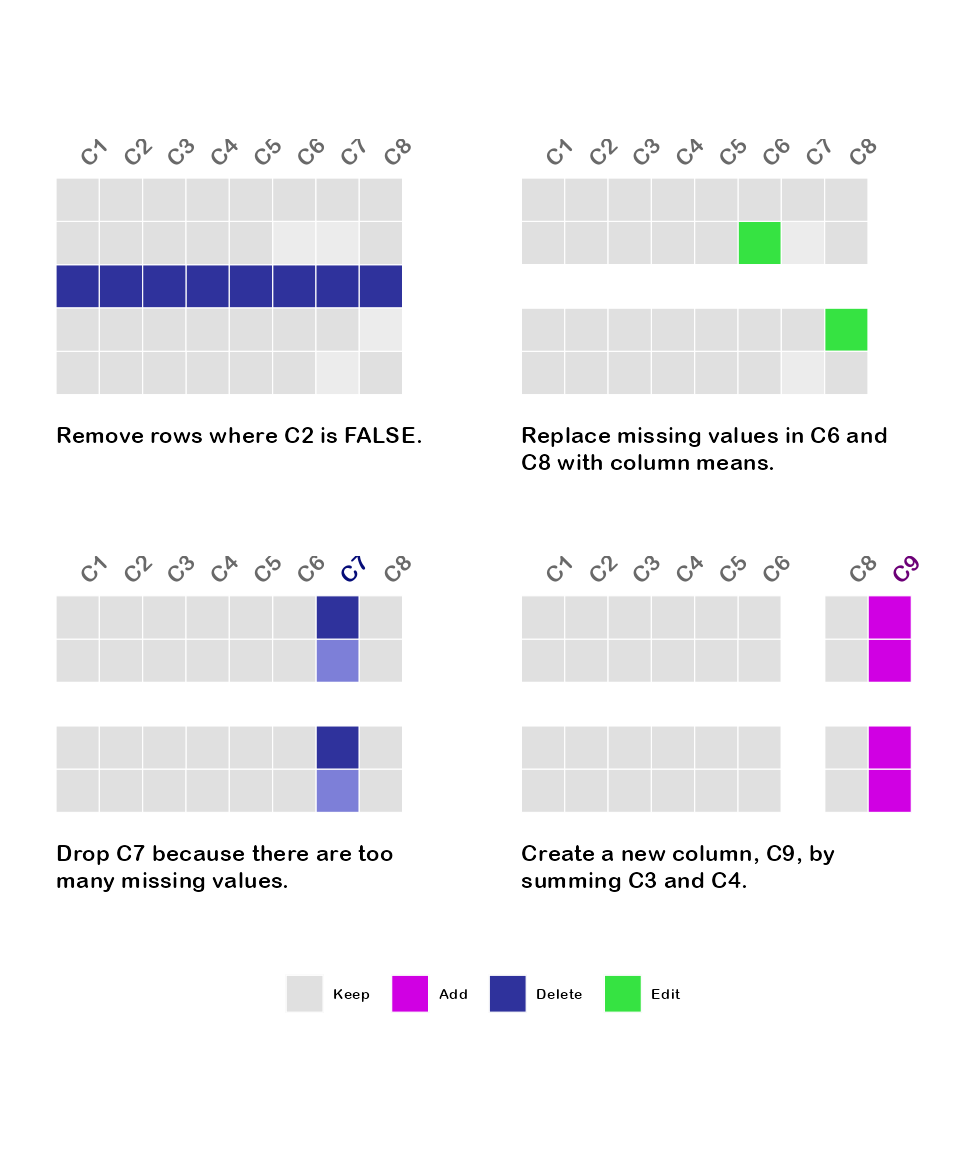
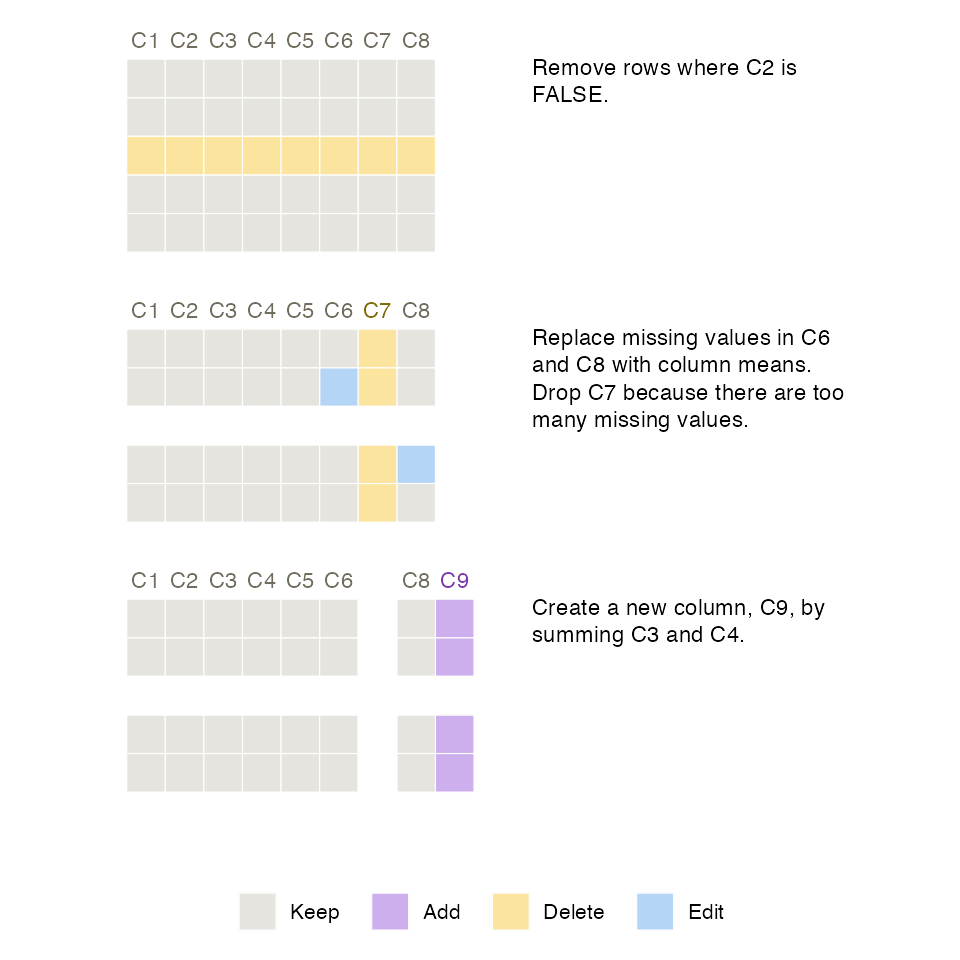
enable vertical alignment

diff --git a/docs/articles/smallsets.html b/docs/articles/smallsets.html
@@ -399,7 +399,7 @@ this should be done with caution.</p>
 this section highlight some of them. See <code><a href="../reference/Smallset_Timeline.html">?Smallset_Timeline</a></code>
 for a full list of options.</p>
 <p><strong>Example 1</strong></p>
-<p>Some differences: custom colour palette, data in the snapshots,
+<p>Differences: custom colour palette, data in the snapshots,
 highlighting missing data, a different font, no ghost data, and altered
 sizing, spacing, and labelling.</p>
 <div class="sourceCode" id="cb20"><pre class="downlit sourceCode r">
@@ -425,9 +425,21 @@ sizing, spacing, and labelling.</p>
 <span><span class="op">)</span></span></code></pre></div>
 <p><img src="smallsets_files/figure-html/timeline5-1.png" width="768" style="display: block; margin: auto;"></p>
 <p><strong>Example 2</strong></p>
-<p>Some differences: four snapshots, use of a built-in colour palette,
-split into two rows, and rotated column names.</p>
+<p>Differences: vertical alignment.</p>
 <div class="sourceCode" id="cb21"><pre class="downlit sourceCode r">
+<code class="sourceCode R"><span><span class="fu"><a href="https://rdrr.io/r/base/Random.html" class="external-link">set.seed</a></span><span class="op">(</span><span class="fl">145</span><span class="op">)</span></span>
+<span></span>
+<span><span class="fu"><a href="../reference/Smallset_Timeline.html">Smallset_Timeline</a></span><span class="op">(</span></span>
+<span>  data <span class="op">=</span> <span class="va">s_data</span>,</span>
+<span>  code <span class="op">=</span> <span class="fu"><a href="https://rdrr.io/r/base/system.file.html" class="external-link">system.file</a></span><span class="op">(</span><span class="st">"s_data_preprocess.R"</span>, package <span class="op">=</span> <span class="st">"smallsets"</span><span class="op">)</span>,</span>
+<span>  align <span class="op">=</span> <span class="st">"vertical"</span>,</span>
+<span>  spacing <span class="op">=</span> <span class="fu"><a href="../reference/sets_spacing.html">sets_spacing</a></span><span class="op">(</span>captions <span class="op">=</span> <span class="fl">8</span><span class="op">)</span></span>
+<span><span class="op">)</span></span></code></pre></div>
+<p><img src="smallsets_files/figure-html/timeline6-1.png" width="480" style="display: block; margin: auto;"></p>
+<p><strong>Example 3</strong></p>
+<p>Differences: four snapshots, use of the third built-in colour
+palette, split into two rows, and rotated column names.</p>
+<div class="sourceCode" id="cb22"><pre class="downlit sourceCode r">
 <code class="sourceCode R"><span><span class="fu"><a href="https://rdrr.io/r/base/Random.html" class="external-link">set.seed</a></span><span class="op">(</span><span class="fl">145</span><span class="op">)</span></span>
 <span></span>
 <span><span class="fu"><a href="../reference/Smallset_Timeline.html">Smallset_Timeline</a></span><span class="op">(</span></span>
@@ -447,7 +459,7 @@ split into two rows, and rotated column names.</p>
 <span>    legend <span class="op">=</span> <span class="fl">7</span></span>
 <span>    <span class="op">)</span></span>
 <span><span class="op">)</span></span></code></pre></div>
-<p><img src="smallsets_files/figure-html/timeline6-1.png" width="480" style="display: block; margin: auto;"></p>
+<p><img src="smallsets_files/figure-html/timeline7-1.png" width="480" style="display: block; margin: auto;"></p>
 </div>
 <div class="section level2">
 <h2 id="Alt_text">Alternative text (alt text)<a class="anchor" aria-label="anchor" href="#Alt_text"></a>
@@ -456,7 +468,7 @@ split into two rows, and rotated column names.</p>
 Timeline. When <code>altText = TRUE</code>, a draft of alt text is
 printed to the console. It can be copied from the console, revised for
 readability, and included with the figure.</p>
-<div class="sourceCode" id="cb22"><pre class="downlit sourceCode r">
+<div class="sourceCode" id="cb23"><pre class="downlit sourceCode r">
 <code class="sourceCode R"><span><span class="fu"><a href="https://rdrr.io/r/base/Random.html" class="external-link">set.seed</a></span><span class="op">(</span><span class="fl">145</span><span class="op">)</span></span>
 <span></span>
 <span><span class="fu"><a href="../reference/Smallset_Timeline.html">Smallset_Timeline</a></span><span class="op">(</span>data <span class="op">=</span> <span class="va">s_data</span>, </span>
@@ -475,7 +487,7 @@ instruction in a structured comment.</p>
 categorical variable.</p>
 <p><strong>s_data_preprocess_resume.R</strong> (Don’t run this code
 block. It’s an example preprocessing script.)</p>
-<div class="sourceCode" id="cb24"><pre class="downlit sourceCode r">
+<div class="sourceCode" id="cb25"><pre class="downlit sourceCode r">
 <code class="sourceCode R"><span><span class="co"># smallsets snap s_data caption[Remove rows where C2</span></span>
 <span><span class="co"># is FALSE.]caption</span></span>
 <span><span class="va">s_data</span> <span class="op">&lt;-</span> <span class="va">s_data</span><span class="op">[</span><span class="va">s_data</span><span class="op">$</span><span class="va">C2</span> <span class="op">==</span> <span class="cn">TRUE</span>,<span class="op">]</span></span>
@@ -503,7 +515,7 @@ block. It’s an example preprocessing script.)</p>
 <span>  include.lowest <span class="op">=</span> <span class="cn">T</span>,</span>
 <span>  labels <span class="op">=</span> <span class="fu"><a href="https://rdrr.io/r/base/c.html" class="external-link">c</a></span><span class="op">(</span><span class="st">"Low"</span>, <span class="st">"Med"</span>, <span class="st">"High"</span><span class="op">)</span></span>
 <span><span class="op">)</span><span class="op">)</span></span></code></pre></div>
-<div class="sourceCode" id="cb25"><pre class="downlit sourceCode r">
+<div class="sourceCode" id="cb26"><pre class="downlit sourceCode r">
 <code class="sourceCode R"><span><span class="fu"><a href="https://rdrr.io/r/base/Random.html" class="external-link">set.seed</a></span><span class="op">(</span><span class="fl">145</span><span class="op">)</span></span>
 <span></span>
 <span><span class="fu"><a href="../reference/Smallset_Timeline.html">Smallset_Timeline</a></span><span class="op">(</span>data <span class="op">=</span> <span class="va">s_data</span>, </span>
@@ -521,7 +533,7 @@ block. It’s an example preprocessing script.)</p>
 <span>                    right <span class="op">=</span> <span class="fl">2</span></span>
 <span>                    <span class="op">)</span></span>
 <span>                  <span class="op">)</span></span></code></pre></div>
-<p><img src="smallsets_files/figure-html/timeline7-1.png" width="672" style="display: block; margin: auto;"></p>
+<p><img src="smallsets_files/figure-html/timeline8-1.png" width="672" style="display: block; margin: auto;"></p>
 </div>
   </main><aside class="col-md-3"><nav id="toc"><h2>On this page</h2>
     </nav></aside>

diff --git a/docs/reference/sets_spacing.html b/docs/reference/sets_spacing.html
@@ -65,15 +65,18 @@
 <span>  degree <span class="op">=</span> <span class="cn">NULL</span>,</span>
 <span>  header <span class="op">=</span> <span class="cn">NULL</span>,</span>
 <span>  right <span class="op">=</span> <span class="cn">NULL</span>,</span>
-<span>  rows <span class="op">=</span> <span class="cn">NULL</span></span>
+<span>  rows <span class="op">=</span> <span class="cn">NULL</span>,</span>
+<span>  columns <span class="op">=</span> <span class="cn">NULL</span></span>
 <span><span class="op">)</span></span></code></pre></div>
     </div>
 
     <div class="section level2">
     <h2 id="arguments">Arguments<a class="anchor" aria-label="anchor" href="#arguments"></a></h2>
     <dl><dt>captions</dt>
-<dd><p>Positive numeric value for amount of caption space below
-snapshots.</p></dd>
+<dd><p>Positive numeric value for amount of caption space. 
+When alignment is horizontal, refers to the space below snapshots. 
+When alignment is vertical, refers to the space to the right of 
+the snapshots.</p></dd>
 
 
 <dt>degree</dt>
@@ -90,7 +93,13 @@ of each snapshot.</p></dd>
 
 
 <dt>rows</dt>
-<dd><p>Integer for number of Timeline rows.</p></dd>
+<dd><p>Integer for number of Timeline rows 
+(applicable when the alignment is horizontal).</p></dd>
+
+
+<dt>columns</dt>
+<dd><p>Integer for number of Timeline columns 
+(applicable when the alignment is vertical).</p></dd>
 
 </dl></div>
     <div class="section level2">

diff --git a/docs/reference/Smallset_Timeline.html b/docs/reference/Smallset_Timeline.html
@@ -77,6 +77,7 @@
 <span>  truncateData <span class="op">=</span> <span class="cn">NULL</span>,</span>
 <span>  ghostData <span class="op">=</span> <span class="cn">TRUE</span>,</span>
 <span>  missingDataTints <span class="op">=</span> <span class="cn">FALSE</span>,</span>
+<span>  align <span class="op">=</span> <span class="st">"horizontal"</span>,</span>
 <span>  font <span class="op">=</span> <span class="st">"sans"</span>,</span>
 <span>  sizing <span class="op">=</span> <span class="fu"><a href="sets_sizing.html">sets_sizing</a></span><span class="op">(</span><span class="op">)</span>,</span>
 <span>  spacing <span class="op">=</span> <span class="fu"><a href="sets_spacing.html">sets_spacing</a></span><span class="op">(</span><span class="op">)</span>,</span>
@@ -159,8 +160,14 @@ removed.</p></dd>
 missing data value.</p></dd>
 
 
+<dt>align</dt>
+<dd><p>Either "horizontal" or "vertical". For horizontal, snapshots
+are plotted left to right. For vertical, snapshots are plotted top
+to bottom.</p></dd>
+
+
 <dt>font</dt>
-<dd><p>Any font installed in R. Default is sans.</p></dd>
+<dd><p>Any font installed in R.</p></dd>
 
 
 <dt>sizing</dt>

diff --git a/docs/reference/finalise_plot.html b/docs/reference/finalise_plot.html
@@ -60,7 +60,7 @@
 
     <div class="section level2">
     <h2 id="ref-usage">Usage<a class="anchor" aria-label="anchor" href="#ref-usage"></a></h2>
-    <div class="sourceCode"><pre class="sourceCode r"><code><span><span class="fu">finalise_plot</span><span class="op">(</span><span class="va">itemNum</span>, <span class="va">plots</span>, <span class="va">output</span>, <span class="va">maxDims</span>, <span class="va">font</span>, <span class="va">sizing</span>, <span class="va">spacing</span><span class="op">)</span></span></code></pre></div>
+    <div class="sourceCode"><pre class="sourceCode r"><code><span><span class="fu">finalise_plot</span><span class="op">(</span><span class="va">itemNum</span>, <span class="va">plots</span>, <span class="va">output</span>, <span class="va">maxDims</span>, <span class="va">align</span>, <span class="va">font</span>, <span class="va">sizing</span>, <span class="va">spacing</span><span class="op">)</span></span></code></pre></div>
     </div>
 
 
